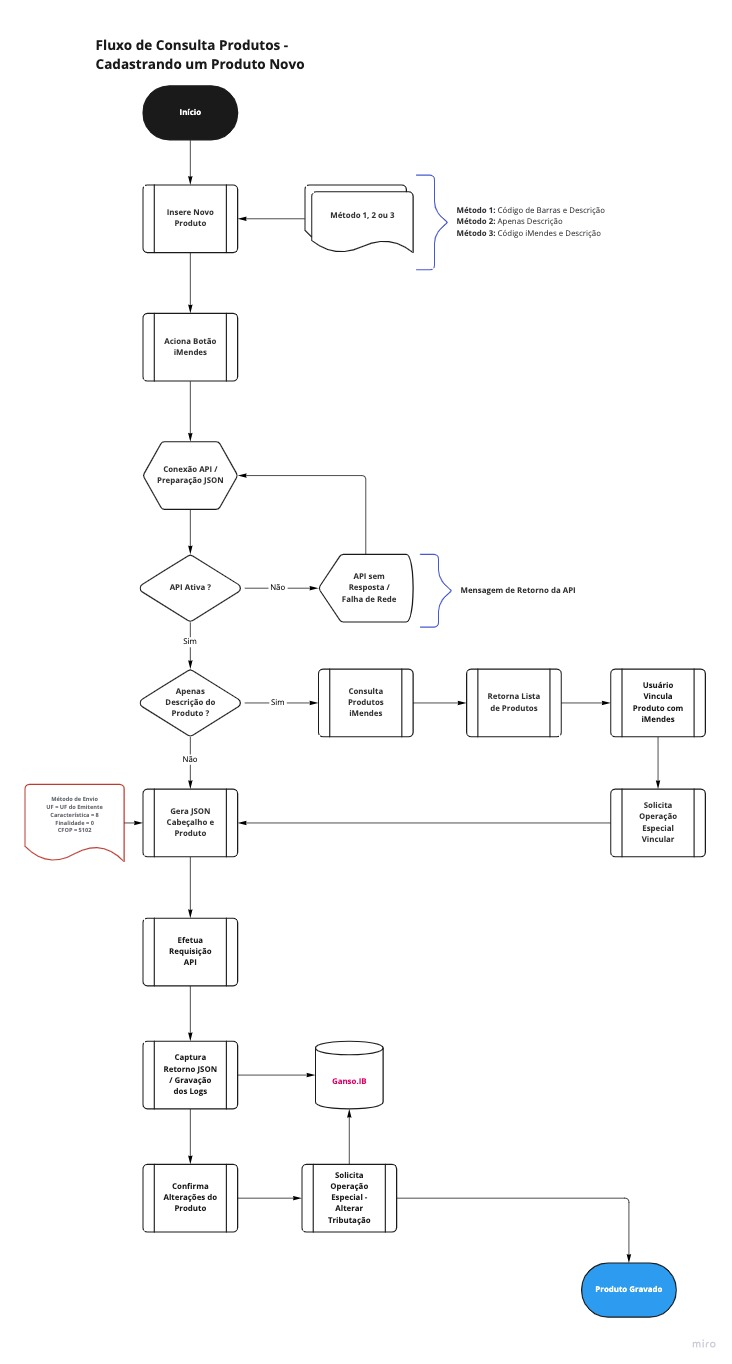
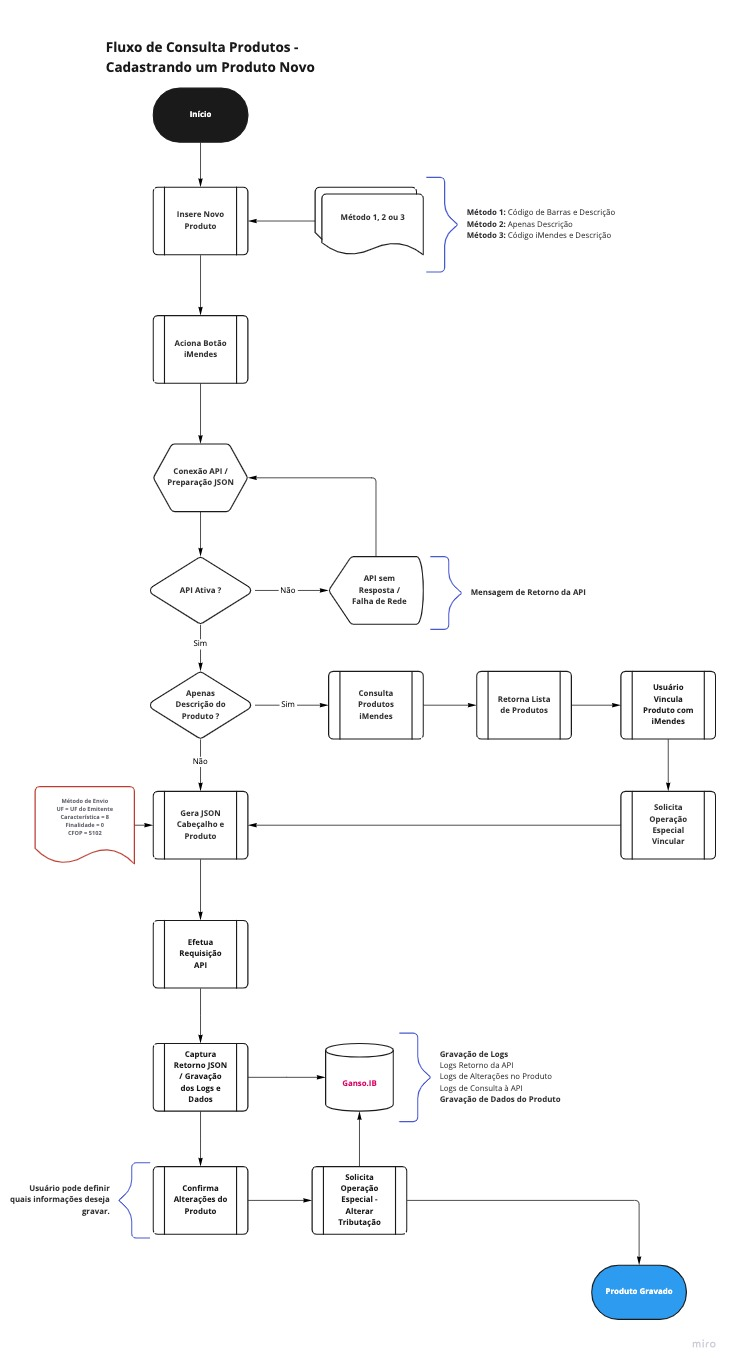
Types of Search
Finish the initial explanation of search

diff --git a/Requirements.md b/Requirements.md
@@ -13,7 +13,6 @@
   - [Requisitos - Consulta iMendes Cadastro de Produtos](#requisitos---consulta-imendes-cadastro-de-produtos)
   - [Campos](#campos)
   - [Tipos de Consulta](#tipos-de-consulta)
-  - [Fluxograma da Consulta Tributação](#fluxograma-da-consulta-tributação)
   - [Consulta Tributos - Gerenciador de Tributação](#consulta-tributos---gerenciador-de-tributação)
     - [Métodos Básicos](#métodos-básicos)
     - [Métodos Avançados](#métodos-avançados)
@@ -98,20 +97,20 @@ Método | Tipo | Descritivo | Validações | API | Tags de Envio Principais
 **Método 2** |**Apenas Descrição** | Consultar a Tributação de um Produto utilizando a Descrição. Capturar a lista de Produtos semelhantes, e permitir vincular um Produto iMendes com o Produto corrente. | Permitir vincular apenas um Produto iMendes com um Produto cadastrado. Criar acesso restrito para esta operação. Identificar se o Produto está sem Código de Barras e não vinculado a um Código iMendes.|**Envia/Recebe Dados**|"nomeservico":"DESCPRODUTOS", "dados":"CNPJ|DESCRICAO"
 **Método 3** | **Código iMendes e Descrição** | Consultar a Tributação do Produto utilizando o Código iMendes previamente vinculado. Capturar o retorno normalmente como ocorre no Método 1 | Identificar se o Produto possui um Código iMendes, se sim, utilizar esta informação para localizar a tributação. | **Saneamento** | "codIMendes":"CODIGOVINCULADO", "descricao":"DESCRICAO"
 
-Além do Método de Consulta, outras informações são necessárias para envio da Requisição, que compõem o **Perfil** a ser consultado. Estas informações foram classificadas e organizadas, e mesmo as não obrigatórias, devem ser enviadas com valores padrão. São:
+Além do Método de Consulta, outras informações são necessárias para envio da Requisição, que compõem o **Perfil** a ser consultado. Estas informações foram classificadas e organizadas, e mesmo as não obrigatórias, devem ser enviadas com valores padrão. Conforme análise, o objetivo de Consulta através do Cadastro é obter dados para **Saída na Operação de Venda ao Consumidor (NFC-e)**, portanto os seguintes parâmetros devem ser considerados:
 
-Dado | Tipo | Descritivo | Obrigatório
-:------|:------|:------|:-----:
-UF | Lista de Dados | Lista de UFs para Consulta de Regras. Por padrão enviar a UF da Empresa Filial | **Sim**
-CFOP | Código da Operação | Código da Operação a ser Realizada. Deve ser enviada uma operação coerente com os dados desejados, por exemplo, uma Operação de Venda deve conter um CFOP que indique operação de Venda, mesmo que este não seja o correto. Para Operações de Venda enviar por padrão "5102" | **Sim**
-Característica Tributária | Lista de Códigos Inteiros | Indica o Tipo de Destinatário da Operação | **Sim**
-Finalidade | Código | Indica a Destinação do Produto para a Operação informada. É importante para especificar a operação. | Não
-Simples Nacional | Caractere | Indica se o Destinatário da Operação é Simples Nacional ou Não. Preenchido com 'S' ou 'N'. Se CRT da Empresa é igual a 1 ou 2, enviar 'S', senão enviar 'N'. | Não
-Origem | Código | Indica a Origem da Mercadoria. Se Tipo de Consulta igual a Método 1, e Código de Barras não iniciar em 789 ou 790, enviar Código 8. | **Sim**
-Substituição Tributária | Caractere | Indica se o destinatário é Substituto Tributário. Valor padrão igual a 'N' | Não
+Dado | Tipo | Descritivo | Valor Padrão |Obrigatório
+:------|:------|:------|:-------:|:-------:
+UF | Lista de Dados | Lista de UFs para Consulta de Regras. | UF da Empresa Filial |**Sim**
+CFOP | Código da Operação | Código da Operação a ser Realizada. Deve ser enviada uma operação coerente com os dados desejados, por exemplo, uma Operação de Venda deve conter um CFOP que indique operação de Venda, mesmo que este não seja o correto. | "5102" |**Sim**
+Característica Tributária | Lista de Códigos Inteiros | Indica o Tipo de Destinatário da Operação | Código "8" |**Sim**
+Finalidade | Código | Indica a Destinação do Produto para a Operação informada. É importante para especificar a operação. | Código "0" | Não
+Simples Nacional | Caractere | Indica se o Destinatário da Operação é Simples Nacional ou Não. Preenchido com 'S' ou 'N'. Se CRT da Empresa é igual a 1 ou 2, enviar 'S', senão enviar 'N'. | 'N' | Não
+Origem | Código | Indica a Origem da Mercadoria. Se Tipo de Consulta igual a Método 1, e Código de Barras não iniciar em 789 ou 790, enviar Código 8. | Código "0" | **Sim**
+Substituição Tributária | Caractere | Indica se o destinatário é Substituto Tributário. | 'N' | Não
 
-   
-## Fluxograma da Consulta Tributação
+Após a obtenção dos dos Dados Necessários para envio da Requisição, o **Fluxo de Consulta** pode ser visualizado através do Esquema abaixo:   
+
 - ![Fluxo de Consulta - Novo Produto](./Flow-Consulta-Produto.jpeg)
 
 [Voltar ao Sumário](#sumario)
